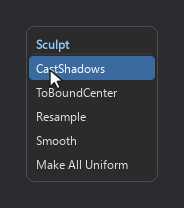
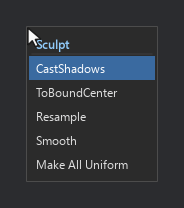
menu at the cursor's top-left corner, square corners
- the panel's top-left corner now sits exactly on the cursor (Krita's QMenu
  behaviour); the previous build offset it 10px down-right. Flipping at the
  screen edge keeps working, without the offset.
- corners are square (CORNER_RADIUS / ROW_CORNER_RADIUS = 0): 3DCoat's own menus
  are square, and the editor chrome picks the same style up.
- tests: corner sits on the anchor; flips near the screen edge.

diff --git a/coat_side/coatmenu/ui/popup.py b/coat_side/coatmenu/ui/popup.py
@@ -397,8 +397,8 @@ class MenuPopup(QWidget):
                             self.width() - theme.PADDING,
                             h,
                         ),
-                        4,
-                        4,
+                        theme.ROW_CORNER_RADIUS,
+                        theme.ROW_CORNER_RADIUS,
                     )
 
                 painter.setFont(self._font)
@@ -497,17 +497,21 @@ class MenuPopup(QWidget):
             self._poll.start()
 
     def _clamped_position(self, anchor: QPoint) -> QPoint:
-        off = 10
-        x, y = anchor.x() + off, anchor.y() + off
+        """Panel top-left sits exactly on the anchor - same as Krita's QMenu.
+
+        Flips to the other side of the cursor when the panel would otherwise run
+        off the screen.
+        """
+        x, y = anchor.x(), anchor.y()
         screen = QGuiApplication.screenAt(anchor) or QGuiApplication.primaryScreen()
         try:
             area = screen.availableGeometry()
         except AttributeError:
             area = screen.geometry()
         if x + self.width() > area.right():
-            x = max(area.left(), anchor.x() - self.width() - off)
+            x = max(area.left(), anchor.x() - self.width())
         if y + self.height() > area.bottom():
-            y = max(area.top(), anchor.y() - self.height() - off)
+            y = max(area.top(), anchor.y() - self.height())
         return QPoint(int(x), int(y))
 
     def _fade_tick(self) -> None:

diff --git a/tests/test_popup.py b/tests/test_popup.py
@@ -58,6 +58,8 @@ manager.show_menu(build_items(), anchor=QPoint(120, 120), title="CoatMenu")
 widget = manager.popup
 check(widget is not None and widget.isVisible(), "popup is visible after show_menu")
 if widget is not None:
+    check(widget.pos() == QPoint(120, 120),
+          f"top-left corner sits exactly on the cursor, like Krita's menu ({widget.pos()})")
     check(len(widget._rows) == 6, f"row count includes title+section headers ({len(widget._rows)})")
     check(widget.width() > 100 and widget.height() > 60,
           f"size is sane ({widget.width()}x{widget.height()})")
@@ -216,6 +218,16 @@ cursor_mod.system_cursor_visible = lambda: True
 widget.leaveEvent(None)
 check(widget._cursor_local is None, "leaving the panel stops drawing the pointer")
 widget.dismiss()
+
+print("== near the screen edge the panel flips to stay visible ==")
+from PySide6.QtGui import QGuiApplication  # noqa: E402
+
+area = QGuiApplication.primaryScreen().availableGeometry()
+manager.show_menu(build_items(), anchor=area.bottomRight() - QPoint(6, 6))
+edge = manager.popup
+check(edge.x() < area.right() - 6 and edge.y() < area.bottom() - 6,
+      f"flips instead of running off the screen ({edge.pos()} in {area})")
+edge.dismiss()
 
 print("== stepping aside when another application takes the foreground ==")
 manager.show_menu(build_items(), anchor=QPoint(120, 120))

diff --git a/tests/render_preview.py b/tests/render_preview.py
@@ -89,7 +89,9 @@ index_rows = [submenu(lst.name, lst.items) for lst in config.lists]
 manager.show_menu(index_rows, anchor=QPoint(80, 80), title="CoatMenu")
 widget = manager.popup
 app.processEvents()
-widget._cursor_local = QPoint(24, widget._rows[1][0] + 14)
+# The panel's top-left corner sits on the cursor now, so that is where the drawn
+# pointer belongs in the preview.
+widget._cursor_local = QPoint(2, 2)
 app.processEvents()
 compose(os.path.join(OUT_DIR, "preview-popup.png"), [widget])
 
@@ -101,7 +103,6 @@ app.processEvents()
 child = widget._child
 print(f"child panel open: {child is not None}")
 if child is not None:
-    child._cursor_local = QPoint(18, child._rows[0][0] + 12)
     compose(os.path.join(OUT_DIR, "preview-submenu.png"), [widget, child])
 
 # 3. a single list shown flat

diff --git a/coat_side/coatmenu/ui/theme.py b/coat_side/coatmenu/ui/theme.py
@@ -7,7 +7,8 @@ so the popup reads as part of the application rather than as a foreign window.
 from __future__ import annotations
 
 # --- window ---
-CORNER_RADIUS = 8
+CORNER_RADIUS = 0      # square corners: matches 3DCoat's own menus
+ROW_CORNER_RADIUS = 0  # highlight bar corners
 BORDER_WIDTH = 1
 PADDING = 6
 SHADOW_BLUR = 24
